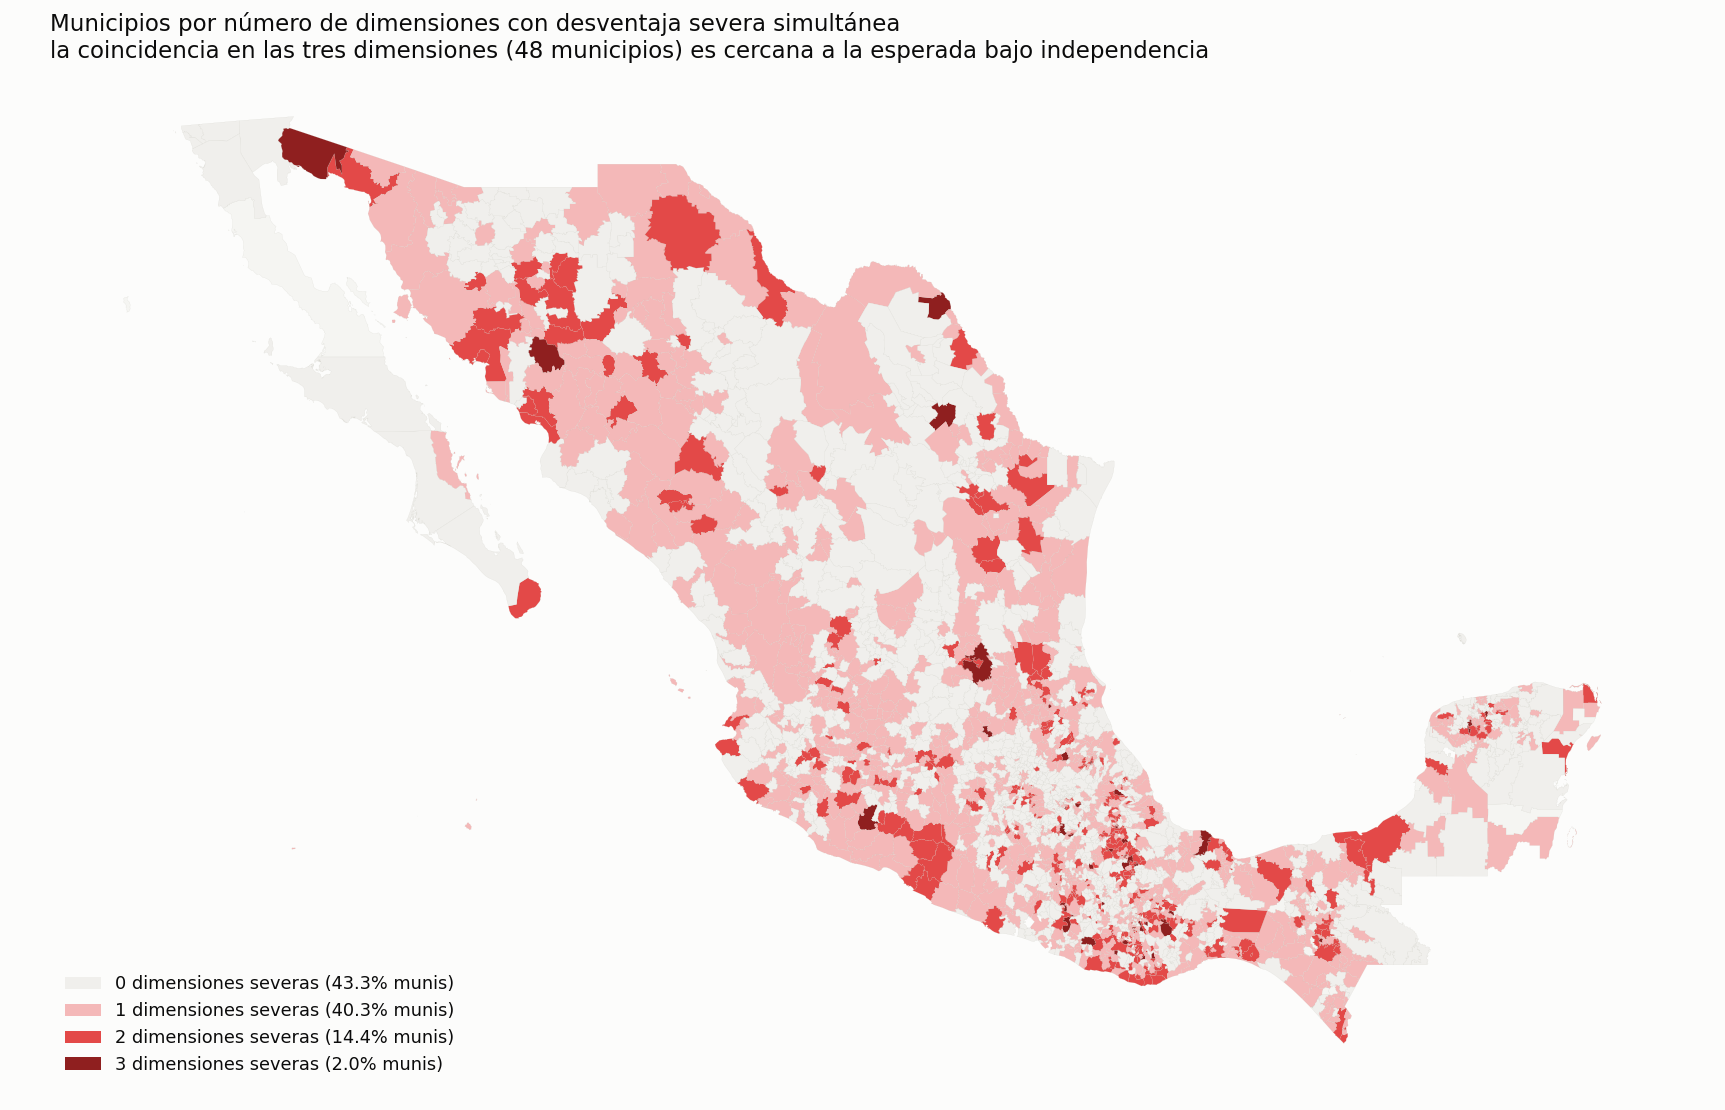
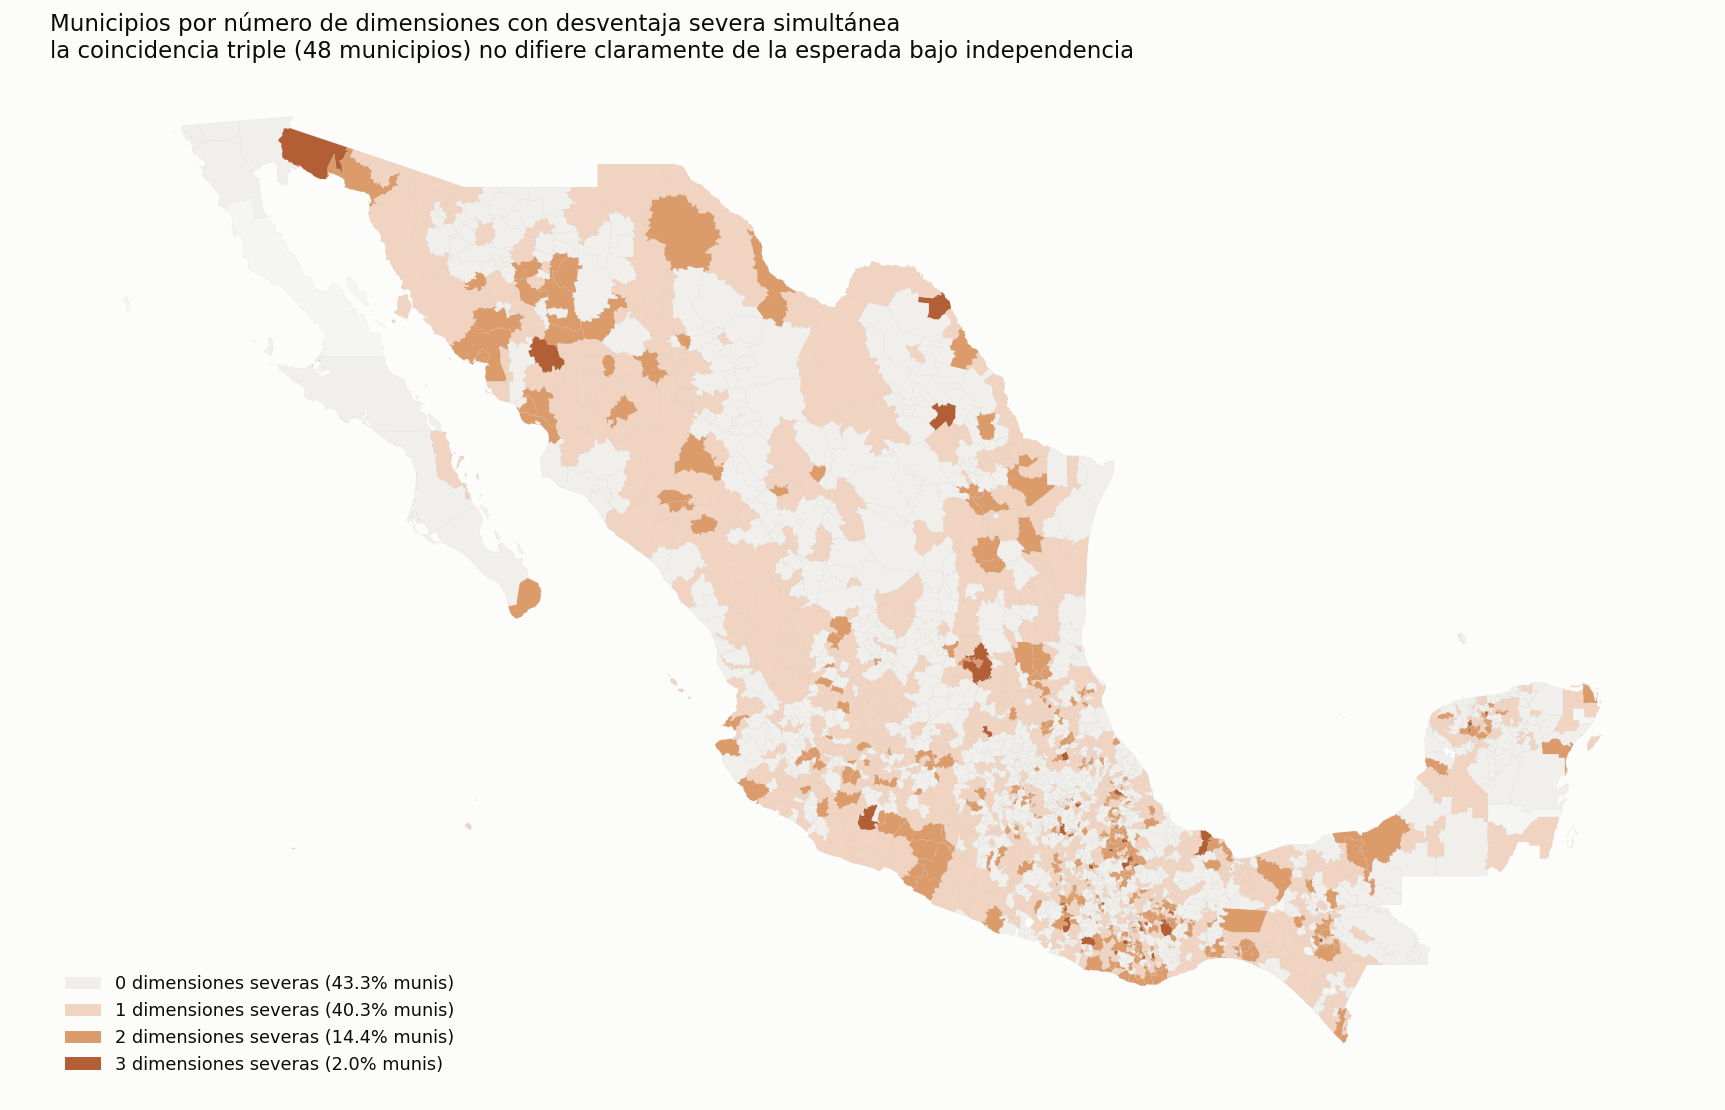
Paper 2: segunda edición fina (12 puntos del feedback)
Título con más fuerza; definición explícita privación vs desigualdad
territorial en §2; Fig 1 y Tabla 1 con estadístico propio por panel
('fracción del Theil' / 'fracción de la varianza', sin frase unificadora);
claim de solapamiento calibrado ('no encontramos solapamiento extremo
adicional claramente distinto de la independencia'); Fig 2 con paleta
atenuada (terracota, sin rojo oscuro focal) y takeaway honesto en píxeles;
interpretación del desacople como 'evidencia compatible con traducción
incompleta' y brecha de apropiación como etiqueta secundaria; cierre
sustantivo en predictores (geografía + urbanización/empleo); sin teatro en
7.1; coerción en sobrio; implicación fiscal matizada ('difícilmente capturan
con precisión'); 'cada lente' -> fuentes de información con errores propios;
§9 Conclusión nueva (3 hallazgos, 1 implicación, 1 límite) y limitaciones
renumeradas a §10.

58 bindings en verde; PDF regenerado e inspeccionado.

diff --git a/scripts/desigualdad.py b/scripts/desigualdad.py
@@ -31,7 +31,7 @@ FIG = ps.figdir("04_diagnostico_mapas")
 HERE = ps.REPO
 PROC, OUT = os.path.join(HERE, "data", "processed"), os.path.join(HERE, "outputs")
 EJES = ["eje1", "eje2", "eje3"]
-ACUM_COL = {0: "#f0efec", 1: "#f4b8b8", 2: "#e34948", 3: "#8f1f1f"}
+ACUM_COL = {0: "#f0efec", 1: "#f0d3c0", 2: "#dc9b6b", 3: "#b35f36"}
 
 
 def norm(df):
@@ -150,7 +150,7 @@ def main():
                                    f"({dist.loc[k, 'pct_munis'] if k in dist.index else 0}% munis)")
                        for k in (0, 1, 2, 3)], loc="lower left", frameon=False, fontsize=8.5)
     ax.set_title("Municipios por número de dimensiones con desventaja severa simultánea\n"
-                 "la coincidencia en las tres dimensiones (48 municipios) es cercana a la esperada bajo independencia",
+                 "la coincidencia triple (48 municipios) no difiere claramente de la esperada bajo independencia",
                  fontsize=11, loc="left", color=ps.INK)
     fig.tight_layout()
     fig.savefig(os.path.join(FIG, "fig_acumulacion.png"), dpi=150)

diff --git a/scripts/fig_theil_escalas.py b/scripts/fig_theil_escalas.py
@@ -55,9 +55,9 @@ def main():
     fig, (a, b) = plt.subplots(1, 2, figsize=(11.8, 5.4), facecolor=ps.SURF,
                                gridspec_kw={"width_ratios": [1.45, 1]})
     barras(a, ind, "(a) Desigualdad observada (indicadores publicados)",
-           "% entre estados (descomposición de Theil, ponderación poblacional)")
+           "fracción del índice de Theil atribuible a diferencias entre estados (%)")
     barras(b, ejes, "(b) Heterogeneidad residual",
-           "% entre estados (descomposición de varianza)")
+           "fracción de la varianza atribuible a diferencias entre estados (%)")
     b.legend(frameon=False, fontsize=8, loc="lower right")
     fig.suptitle("Buena parte de la desigualdad observada coincide con fronteras estatales;\n"
                  "la heterogeneidad residual vive dentro de los estados (métodos distintos por panel; niveles no comparables entre paneles)",

diff --git a/paper/paper2_desigualdad.md b/paper/paper2_desigualdad.md
@@ -1,4 +1,4 @@
-# La distribución territorial de la privación en México: escalas, dimensiones y focalización
+# Desigualdad territorial en México: escalas, dimensiones y límites de la focalización municipal
 
 **Borrador de trabajo (Paper 2, sustantivo) — 2026-07-13**
 *Objetivo editorial: World Development (alternativas alineadas: Regional Studies, Journal of Regional Science, World Development Perspectives; español; traducción al enviar).*
@@ -62,7 +62,7 @@ responde dónde vive la desigualdad territorial (Figura 1, Tabla 1); §4, si las
 privación se solapan (Tabla 2, Figura 2); §5 analiza actividad visible y bienestar local
 (Figura 3); §6, qué características territoriales predicen la privación (Tabla 3); §7 agrupa
 las validaciones externas por la pregunta que responden (Figuras 4 y 5); §8 deriva
-implicaciones para la focalización; §9 discute limitaciones. El apéndice documenta las
+implicaciones para la focalización; §9 concluye y §10 discute limitaciones. El apéndice documenta las
 baterías de robustez.
 
 ## 2. Datos y construcción del espacio de privación
@@ -83,7 +83,9 @@ su co-movimiento se modela explícitamente. La convergencia se verifica sobre la
 covarianza latente (R̂ = 1.003). Las tres dimensiones resultantes: **material-infraestructural**,
 **educativa**, y un contraste de **vivienda e ingreso frente a servicios de red**.
 
-Dos propiedades del espacio estimado gobiernan todo lo que sigue. Primera, cada municipio
+Fijamos la terminología: llamamos *privación* al nivel (observado o latente) de carencia de
+un municipio en una dimensión, y *desigualdad territorial* a la dispersión de esa privación
+entre municipios. Dos propiedades del espacio estimado gobiernan todo lo que sigue. Primera, cada municipio
 tiene una media y una desviación posterior por dimensión, y la inferencia las hereda: los
 modelos municipales se ponderan por el inverso de la varianza posterior, y la clasificación
 individual de un municipio solo es estadísticamente firme en 42%, 55% y 14% de los casos
@@ -101,7 +103,7 @@ Parte de las diferencias de privación entre municipios coincide con las fronter
 fracción importante persiste entre municipios del mismo estado. La pregunta es cuánto pesa
 cada componente, y la respuesta cambia según el objeto que se mire (Figura 1).
 
-![Figura 1. Buena parte de la desigualdad observada coincide con fronteras estatales; la heterogeneidad residual vive dentro de los estados. Panel (a): porcentaje de la desigualdad de cada indicador publicado atribuible a diferencias entre estados (descomposición de Theil, ponderación poblacional). Panel (b): porcentaje de la varianza del factor material sin condicionar y de las tres dimensiones residuales atribuible a diferencias entre estados. Los métodos de descomposición difieren entre paneles y sus niveles no son directamente comparables.](../figures/09_desigualdad/fig_theil_escalas.png)
+![Figura 1. Buena parte de la desigualdad observada coincide con fronteras estatales; la heterogeneidad residual vive dentro de los estados. Panel (a): fracción del índice de Theil de cada indicador publicado atribuible a diferencias entre estados (ponderación poblacional). Panel (b): fracción de la varianza del factor material sin condicionar y de las tres dimensiones residuales atribuible a diferencias entre estados. Cada panel usa su propio estadístico; los niveles no se comparan entre paneles.](../figures/09_desigualdad/fig_theil_escalas.png)
 
 En los indicadores observados, las diferencias entre estados explican del 31.1% (sin
 electricidad) al 58.8% (línea de pobreza por ingreso) de la desigualdad total, con mediana
@@ -120,8 +122,8 @@ mostramos que esa escala depende del objeto: en el nivel observado de la privaci
 componente interestatal pesa cerca de la mitad, y es la heterogeneidad residual la que
 reproduce el predominio intraestatal.
 
-**Tabla 1. Porcentaje de la desigualdad atribuible a diferencias entre estados, por objeto y
-método de descomposición.**<!-- src: desigualdad_theil.csv -->
+**Tabla 1. Fracción atribuible a diferencias entre estados, por objeto y método de
+descomposición** (panel A: fracción del índice de Theil; panel B: fracción de la varianza).<!-- src: desigualdad_theil.csv -->
 
 | Objeto | % entre estados | Método |
 |---|---|---|
@@ -151,9 +153,9 @@ dos, y solo el 2.0% (48 municipios) lo es en las tres — apenas por encima del 
 esperaría si las tres dimensiones fueran independientes (Tabla 2, Figura 2). La coincidencia
 por pares es igualmente baja (índices de Jaccard de 0.05 a 0.21 según el umbral). En el nivel
 observado ocurre lo contrario: ahí domina un factor general y el municipio con carencias
-simultáneas en todo sí es la norma entre los más pobres. La concentración multidimensional de
-desventaja es, por tanto, un fenómeno del nivel observado; en el residuo, cada dimensión
-tiene su propia geografía.
+simultáneas en todo sí es la norma entre los más pobres. La concentración simultánea de desventaja es
+fuerte en el nivel observado; en el espacio residual, en cambio, no encontramos solapamiento
+extremo adicional claramente distinto de la independencia.
 
 **Tabla 2. Coincidencia de desventaja severa entre las tres dimensiones residuales** (razón
 entre la proporción observada de municipios severos en las tres y la esperada bajo
@@ -166,7 +168,7 @@ independencia; IC bootstrap de 1,000 réplicas).<!-- src: desigualdad_robustez.c
 | q80 | 1.43 | [0.97, 1.99] | 0.13 | 0.15 | 0.10 |
 | q90 | 2.44 | [0.80, 4.48] | 0.06 | 0.10 | 0.05 |
 
-![Figura 2. Municipios por número de dimensiones residuales con desventaja severa simultánea (cuartil superior de cada dimensión). La coincidencia en las tres dimensiones — 48 municipios, 2.0% — es cercana a la esperada bajo independencia.](../figures/04_diagnostico_mapas/fig_acumulacion.png)
+![Figura 2. Municipios por número de dimensiones residuales con desventaja severa simultánea (cuartil superior de cada dimensión). La coincidencia en las tres dimensiones — 48 municipios, 2.0% — no difiere claramente de la esperada bajo independencia.](../figures/04_diagnostico_mapas/fig_acumulacion.png)
 
 Los 48 municipios severos en las tres dimensiones — concentrados en Oaxaca, pequeños, rurales
 y con baja recepción de remesas — se describen en el suplemento; el grupo es sensible al
@@ -205,10 +207,9 @@ ingreso sin una huella productiva local equivalente — y el efecto tiene el sig
 cada dimensión (−0.034 sobre la material, +0.027 sobre la monetaria<!-- src:
 satelital_remesas_reg.csv -->). El contraste entre colas resume el patrón: la mediana de
 remesas en los municipios que están mejor de lo que sus luces sugieren es unas 20 veces
-(IC95 bootstrap 14–28) la de los municipios subestimados (Figura 3). Interpretamos este
-desacople como una **brecha de apropiación territorial** — la actividad económica de un
-territorio no se traduce necesariamente en inclusión laboral y bienestar de su población —
-como lectura de los coeficientes, no como identificación causal. La regresión completa está
+(IC95 bootstrap 14–28) la de los municipios subestimados (Figura 3). Interpretamos el desacople como evidencia compatible con una traducción incompleta de la
+actividad visible en bienestar local; la etiqueta **brecha de apropiación territorial** es una
+lectura interpretativa de esos coeficientes, no una identificación causal. La regresión completa está
 en el apéndice E.
 
 ![Figura 3. Privación observada contra predicha por luces nocturnas y geografía (predicción fuera de muestra, bloqueada por estado). Los municipios por encima de la diagonal están peor de lo que su actividad visible sugiere y se caracterizan por precariedad laboral; los municipios por debajo, mejor, y se caracterizan por recepción de remesas.](../figures/07_satelital/fig_satelital_discordancia.png)
@@ -229,6 +230,12 @@ están en el modelo. Dos disciplinas de lectura: la contribución marginal de ca
 depende del orden en que entra (los incrementos no son atribuciones), y todo el ejercicio es
 predictivo, no causal.
 
+La lectura sustantiva: la privación material no es principalmente una consecuencia del
+relieve o del aislamiento. Su predictibilidad aumenta de forma marcada cuando se incorpora la
+forma en que el territorio está poblado e integrado productivamente — lo que sugiere que la
+desigualdad material combina restricciones geográficas con procesos históricos de
+urbanización y empleo.
+
 **Tabla 3. Capacidad predictiva de bloques de características territoriales sobre la
 privación material** (R² de validación cruzada bloqueada por estado; los bloques entran
 acumulativamente en el orden mostrado).<!-- src: desigualdad_robustez.csv capa3 -->
@@ -248,7 +255,7 @@ Tres grupos de análisis externos — ninguno usado en la construcción del espa
 
 ### 7.1 ¿La desigualdad residual coincide con la geografía de la violencia?
 
-No. Tres fuentes independientes convergen en esa respuesta.
+Los tres análisis siguientes producen el mismo patrón general: no.
 
 *Homicidios.* Para medir si la privación anticipa violencia, usamos 103 mil registros
 oficiales de homicidio (2019–2021) y comparamos la capacidad de cinco conjuntos de
@@ -275,7 +282,8 @@ candidatos municipales (2007–2012; Trejo & Ley 2021) tampoco muestran una ruta
 la privación residual de 2020 — el indicador es nulo en dos dimensiones y contradictorio en
 la tercera —, pero sí predicen homicidio una década después (+0.26, t = 2.7)<!-- src:
 g5_coercion.csv --> y ocurrieron donde coincidían competencia criminal y fragmentación
-política. La violencia persiste como violencia; no se convierte en privación residual.
+política. La coerción política histórica conserva asociación con la violencia posterior, pero no con
+las dimensiones residuales de privación.
 
 La lectura conjunta: violencia y privación son dimensiones territorialmente distintas. Un
 índice de privación — observado o residual — no sirve como mapa de riesgo de violencia, y
@@ -329,14 +337,32 @@ diferencia distributiva antes de cualquier análisis de incidencia del gasto.
    coincide con fronteras estatales — mayor en ingreso, menor en servicios de red — es
    materia de coordinación federal-estatal; la heterogeneidad residual, predominantemente
    intraestatal, requiere capacidad de discriminación fina dentro de cada estado, que las
-   transferencias por fórmula no proporcionan.
+   fórmulas nacionales agregadas difícilmente capturan con precisión.
 3. **Ningún indicador único cubre todos los usos.** El nivel observado no anticipa violencia;
    los sensores remotos no ven el residuo ni la pobreza urbana; los registros de crimen
    dependen de la detección; y las fórmulas de transferencia heredan los sesgos del
-   instrumento con que se midió. Cada lente tiene un dominio de validez documentado aquí, y
-   la política que use una sola hereda sus puntos ciegos.
+   instrumento con que se midió. Cada fuente de información cubre dimensiones distintas y tiene errores de
+   medición propios, documentados aquí; la política que use una sola hereda sus puntos
+   ciegos.
 
-## 9. Limitaciones
+## 9. Conclusión
+
+La desigualdad territorial mexicana no puede reducirse a una sola jerarquía municipal. Una
+parte importante de la privación observada sigue fronteras estatales — más en el ingreso,
+menos en los servicios de red — pero las diferencias residuales, las que quedan una vez
+descontado lo que la composición y la pertenencia estatal explican, se concentran dentro de
+los estados. Las dimensiones residuales de la privación, además, rara vez identifican los
+mismos municipios, y la actividad económica visible desde satélite no garantiza un bienestar
+local proporcional: donde el desacople es mayor, la constante es la precariedad laboral.
+
+Para la política pública, estos resultados implican que la focalización debe especificar
+tanto la dimensión de la privación como la escala territorial de la intervención: ninguna
+lista única de municipios prioritarios sirve simultáneamente a programas de infraestructura,
+educación e ingreso, y ningún nivel de gobierno puede cerrar por sí solo brechas que viven a
+escalas distintas. El límite principal del ejercicio es su naturaleza asociativa y de corte
+transversal: describe la estructura de la desigualdad, no sus mecanismos.
+
+## 10. Limitaciones
 
 Los resultados son de corte transversal (2020) y de naturaleza asociativa; ninguna relación
 reportada se identifica causalmente. Las dimensiones residuales son scores latentes con